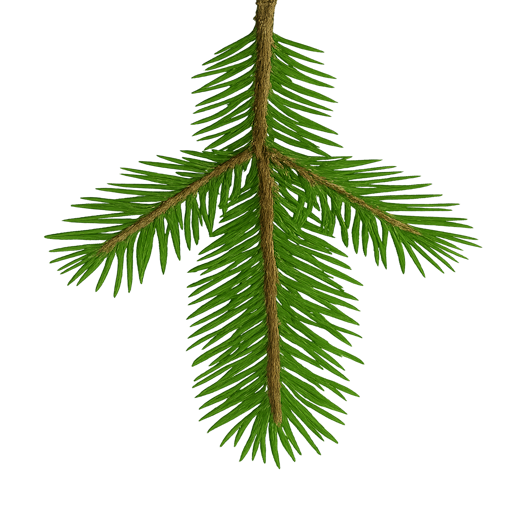
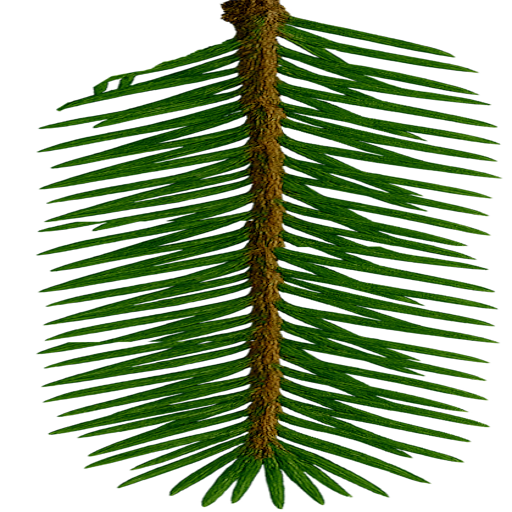
Better spruce

diff --git a/korender-framework/baker/src/commonMain/kotlin/ltree/generator/PineTreeGenerator.kt b/korender-framework/baker/src/commonMain/kotlin/ltree/generator/PineTreeGenerator.kt
@@ -6,23 +6,24 @@ import ltree.randomOrtho
 import kotlin.random.Random
 
 class PineTreeGenerator : SplitGrowTreeGenerator(
-    maxAge = 16f,
+    maxAge = 16.0f,
     branchingStrategy = { branch: BranchDetail, r: Random ->
-        if (branch.age < 1f) {
+        if (branch.age < 1.6f) {
             listOf(
                 (1.y.randomOrtho(r) * r.floatIn(0.01f, 0.06f) + 0.3f.y) to branch.age + 0.3f
             )
         } else if (branch.age < 7f) {
             listOf(
                 (1.y.randomOrtho(r) * r.floatIn(0.01f, 0.06f) + 0.3f.y) to branch.age + 0.3f,
-                (1.y.randomOrtho(r) - branch.vector * 3.5f).normalize() * 1.0f to 10f + branch.age
+                (1.y.randomOrtho(r) - branch.vector * 2.0f).normalize() * 1.0f to 10f + branch.age
             )
         } else if (branch.vector.y < 0f) {
             val right = (1.y % branch.vector).normalize() * r.floatIn(0.5f, 1.0f)
-            val length = branch.age * -0.07f + 1.8f
+            val length = 1.0f// branch.age * -0.09f + 1.9f
             listOf(
                 (branch.vector + right).normalize() * length to branch.age + length,
-                (branch.vector - right).normalize() * length to branch.age + length
+                (branch.vector - right).normalize() * length to branch.age + length,
+                (branch.vector).normalize() * length * 1.3f to branch.age + length * 1.3f
             )
         } else {
             listOf()
@@ -32,18 +33,9 @@ class PineTreeGenerator : SplitGrowTreeGenerator(
         if (branch.age < 7f)
             listOf()
         else {
-            val side = (branch.vector % 1.y).normalize()
-            val normal = (side % branch.vector).normalize()
-            listOf(LTree.Leaf(branch.head, branch.vector, normal))
-            /*
-            val side = (branch.vector % 1.y).normalize()
-            val normal = (side % branch.vector).normalize()
-            (0 until 7).flatMap {
-                listOf(-1f, 1f).map { mult ->
-                    LTree.Leaf(branch.head + branch.vector * ((it + 0.5f) / 8f), side * mult, normal * mult)
-                }
-            } + LTree.Leaf(branch.tail, branch.vector.normalize(), normal)
-             */
+            (0 until 3).map {
+                LTree.Leaf(branch.head, branch.vector, branch.vector.randomOrtho(r))
+            }
         }
 
     }

diff --git a/korender-framework/baker/src/commonMain/kotlin/ltree/LTreeBaker.kt b/korender-framework/baker/src/commonMain/kotlin/ltree/LTreeBaker.kt
@@ -106,7 +106,7 @@ private fun FrameContext.renderFoliage(postfix: String, lTree: LTree, translatio
         instancing = instancing("leaves$postfix", lTree.leaves.size, dynamic = true) {
             lTree.leaves.map { leaf ->
                 translate(0.5f.y)
-                    .scale(0.66f, 1.00f, 1.0f)
+                    .scale(0.15f, 1.00f, 1.0f)
                     .rotate(leaf.normal, leaf.blade.normalize())
                     .translate(leaf.mount)
                     .rotate(1.y, frameInfo.time * 0.1f)

diff --git a/korender-framework/baker/src/commonMain/kotlin/ltree/generator/SplitGrowTreeGenerator.kt b/korender-framework/baker/src/commonMain/kotlin/ltree/generator/SplitGrowTreeGenerator.kt
@@ -127,7 +127,7 @@ open class SplitGrowTreeGenerator(
                 branch.raidusAtHead = 0.01f
             } else {
                 branch.raidusAtTail = branch.children.maxOf { it.raidusAtHead.toDouble() }.toFloat()
-                branch.raidusAtHead = branch.raidusAtTail * 1.1f
+                branch.raidusAtHead = branch.raidusAtTail * 1.14f
             }
         }
 
